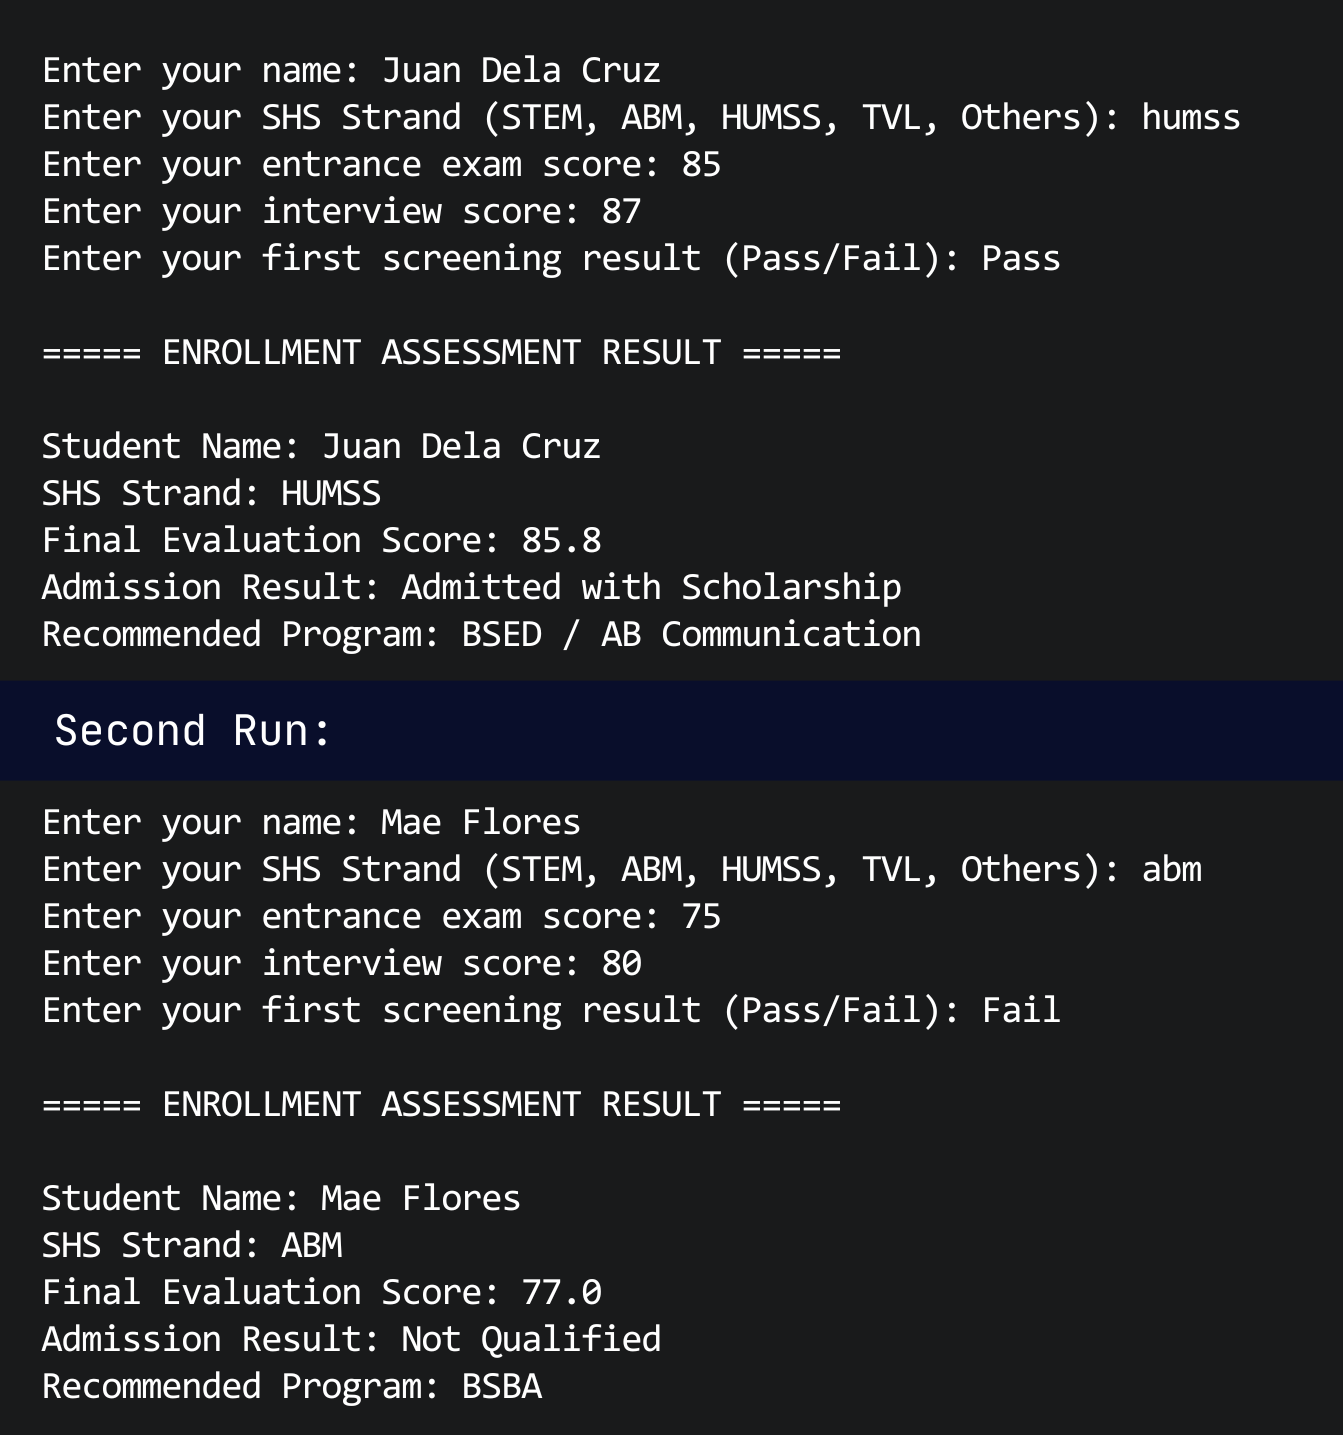
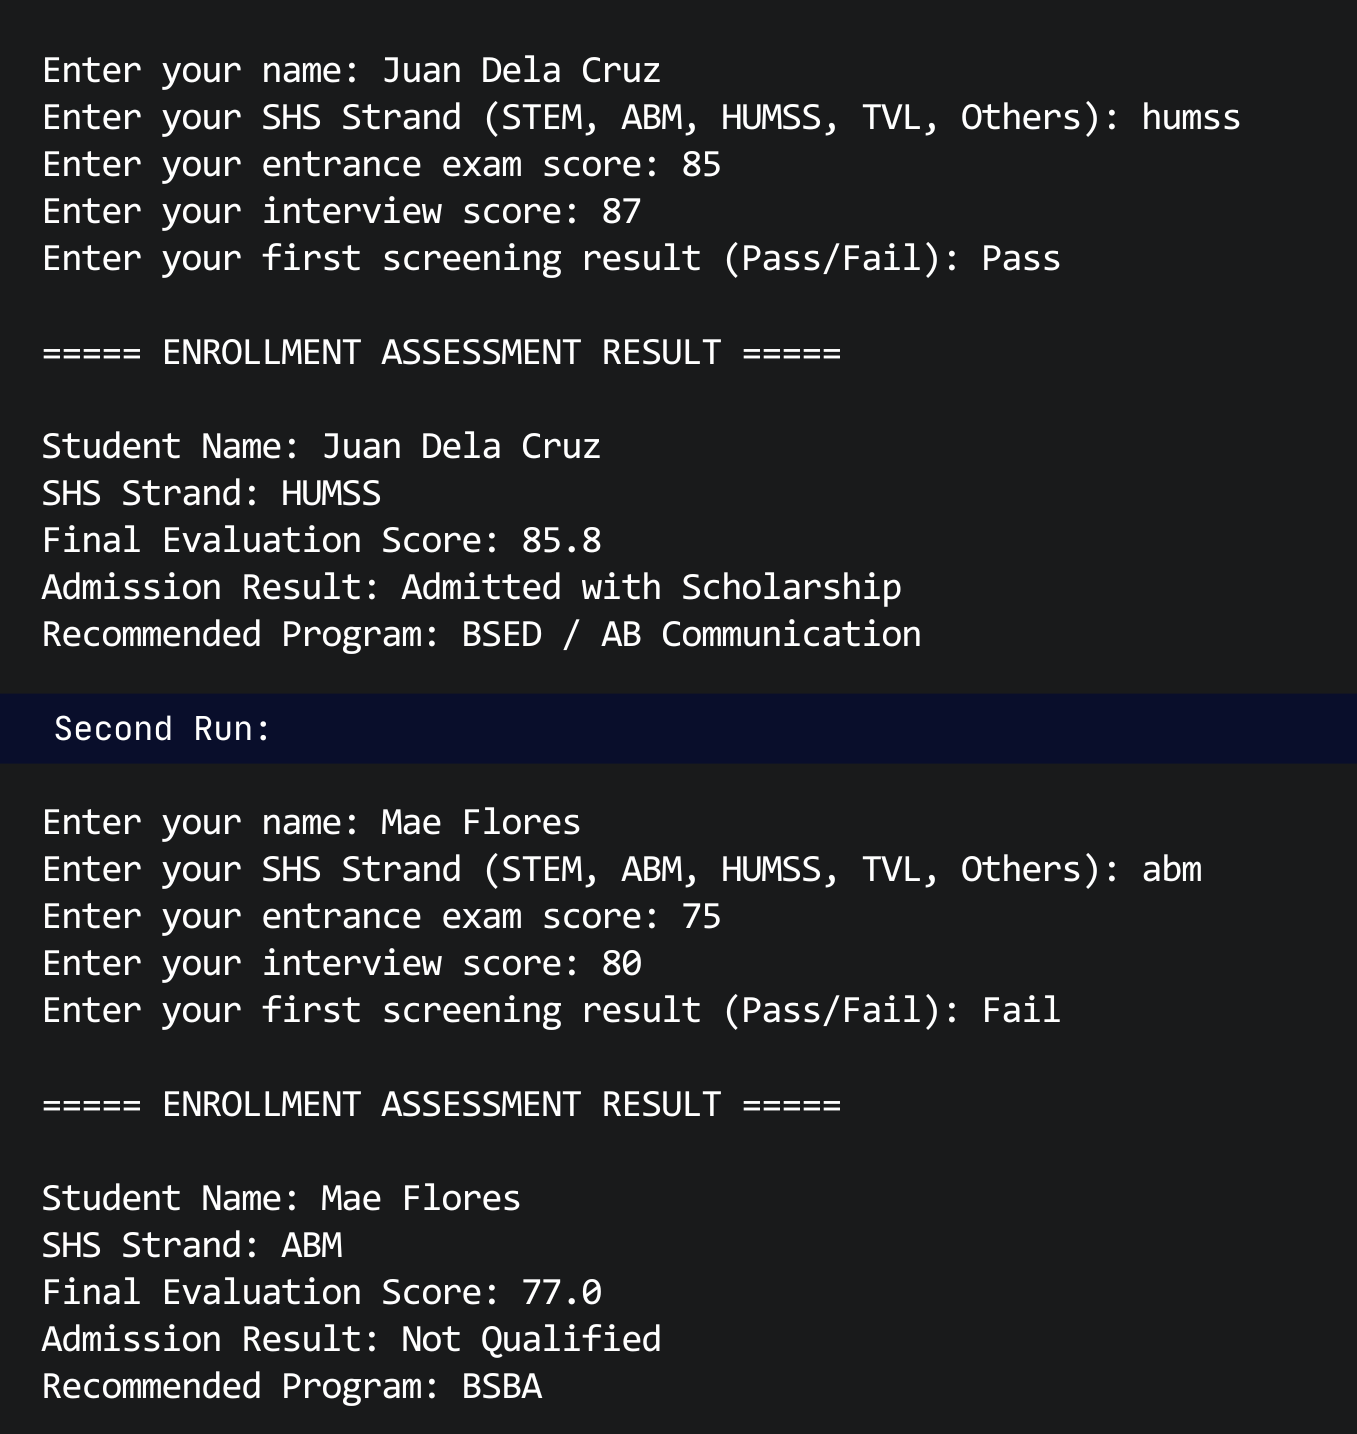
screenshot edit

diff --git a/index.html b/index.html
@@ -990,7 +990,7 @@ const activities = {
     title: 'Activity 1',
     subtitle: 'Variables',
     about: 'This activity is an intro in Java.',
-    pdf: 'materials/2-3_Arcilla_RachelAnne_CodeAnalysisActivity1.pdf'
+    pdf: 'materials/pdf/2-3_Arcilla_RachelAnne_CodeAnalysisActivity1.pdf'
   },
   act2: {
   type: 'code',
@@ -999,7 +999,7 @@ const activities = {
   about: `This activity covers various Java operators. Through this activity, I learned how different Java operators, such as arithmetic, logical, relational, 
         and bitwise, are applied to control program behavior and data manipulation. It helped me understand how each operator works in practice.`,
   lang: 'Java',
-  screenshot: 'materials/act2SS.png',
+  screenshot: 'materials/screenshots/act2SS.png',
   segments: [
     { 
       name: 'Part I: 1. Bitwise', 
@@ -1106,7 +1106,7 @@ const activities = {
     subtitle: 'ATM System',
     about: 'A console-based ATM simulation utilizing do-while loops and switch-case statements for menu navigation and transaction handling.',
     lang: 'BasicATMSystemArcilla.java',
-    screenshot: 'materials/Arcilla_AboutMe.png',
+    screenshot: 'materials/screenshots/act 3.png',
     code: `<span class="kw">import</span> java.util.Scanner;
 
 <span class="kw">public class</span> <span class="cl">BasicATMSystemArcilla</span> {
@@ -1168,6 +1168,7 @@ const activities = {
     subtitle: 'Scholarship Qualification System',
     about: 'An automated assessment tool that calculates final scores based on entrance exams and interviews.',
     lang: 'EnrollmentAssessmentSystemArcilla.java',
+    screenshot: 'materials/screenshots/act 4.png',
     code: `<span class="kw">import</span> java.util.Scanner;
 
 <span class="kw">public class</span> <span class="cl">EnrollmentAssessmentSystemArcilla</span> {
@@ -1340,7 +1341,7 @@ const activities = {
     title: 'Seatwork 1',
     subtitle: 'About Me',
     about: 'Practice with default and parameterized constructors in object initialization.',
-    imagePath: 'materials/Arcilla_AboutMe.png'  
+    imagePath: 'materials/screenshots/Arcilla_AboutMe.png'  
   },
   seat2: {
     type: 'code',
@@ -1348,7 +1349,7 @@ const activities = {
     subtitle: 'Smart Wallet System',
     about: 'A console application demonstrating controlled loops, switch-case logic, and nested conditional statements for financial transactions.',
     lang: 'SmartWalletSystemArcilla.java',
-    screenshot: 'materials/Arcilla_AboutMe.png',
+    screenshot: 'materials/screenshots/Arcilla_AboutMe.png',
     code: `<span class="kw">import</span> java.util.Scanner;
 
 <span class="kw">public class</span> <span class="cl">SmartWalletSystemArcilla</span> {
@@ -1418,13 +1419,13 @@ const activities = {
     title: 'Seatwork 3',
     subtitle: 'Student Age Analyzer',
     about: 'Utilizing dynamic arrays and iteration to manage collections of data.',
-    pdf: 'materials/2-3_Arcilla_RachelAnne_StudentAgeAnalyzer.pdf'
+    pdf: 'materials/pdf/2-3_Arcilla_RachelAnne_StudentAgeAnalyzer.pdf'
   },
   assign1: {
     type: 'pdf',
     title: 'Assignment',
     subtitle: 'Introduction to Java',
-    pdf: 'materials/Arcilla-MidtermAssignment1.pdf',
+    pdf: 'materials/pdf/Arcilla-MidtermAssignment1.pdf',
     about: 'Consolidating OOP concepts into a functional system.'
   },
   quiz: {
